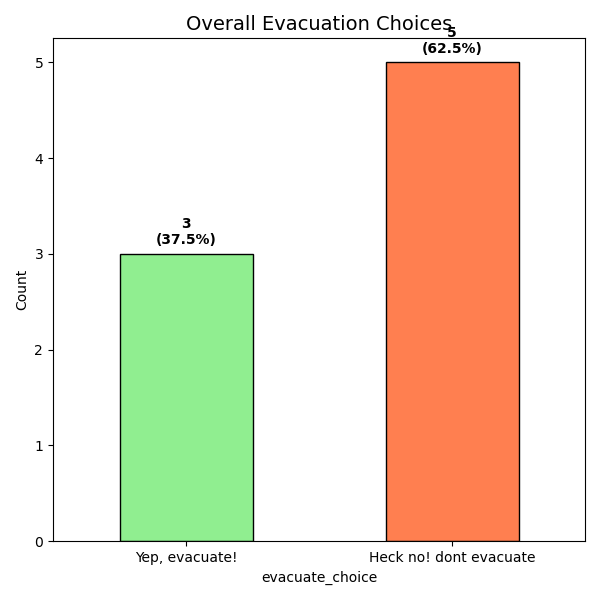
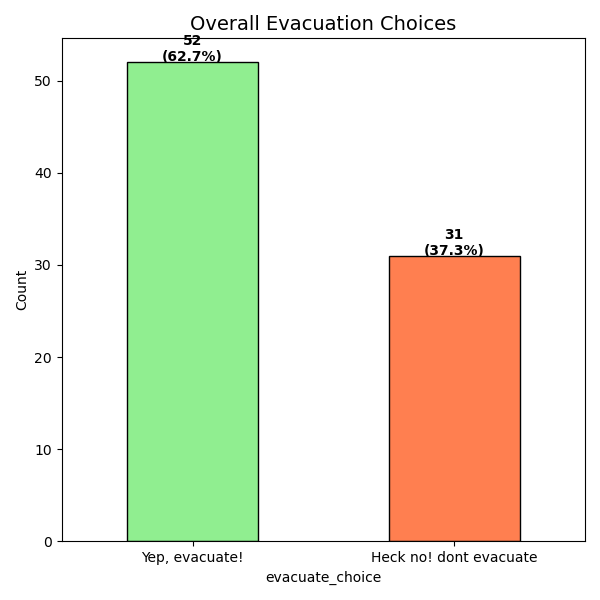
Deployed cee18a4 with MkDocs version: 1.6.1

diff --git a/evacuation_results.html b/evacuation_results.html
@@ -5,7 +5,7 @@
     </head>
     <body>
         <div class="box">
-            <h1>Hurricane Evacuation Report (Today)</h1>
+            <h1>Hurricane Evacuation Report</h1>
             <hr><h2>1. Player Distribution</h2><img src="player_breakdown.png">
             <hr><h2>2. Overall Evacuation</h2><img src="evacuation_overall.png">
             <hr><h2>3. Detailed Breakdown</h2><img src="evacuation_by_type.png">